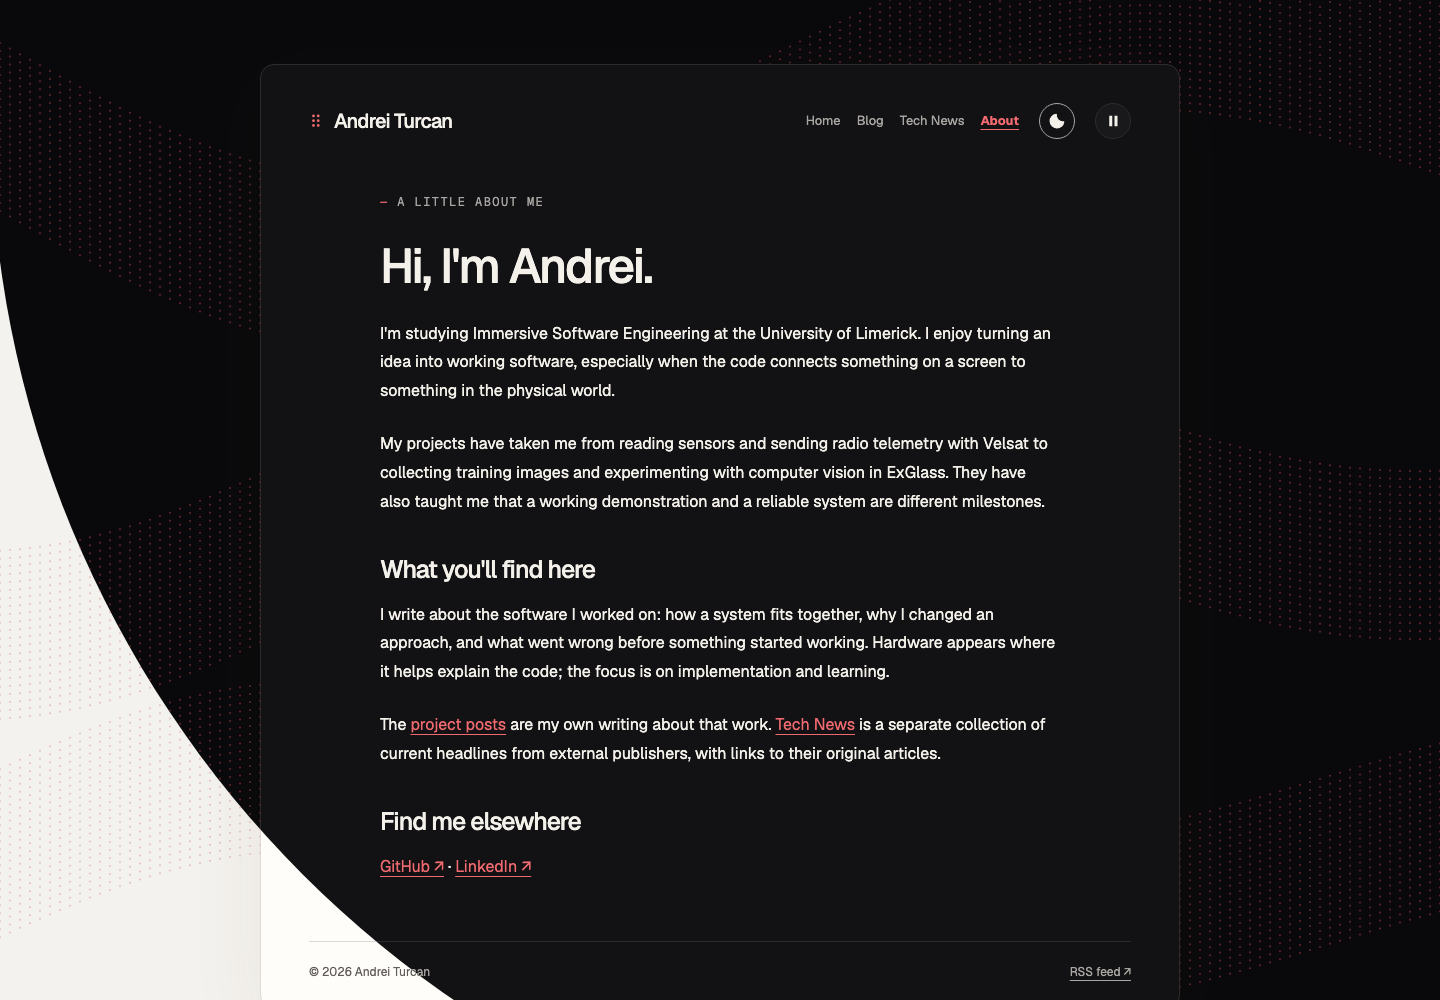
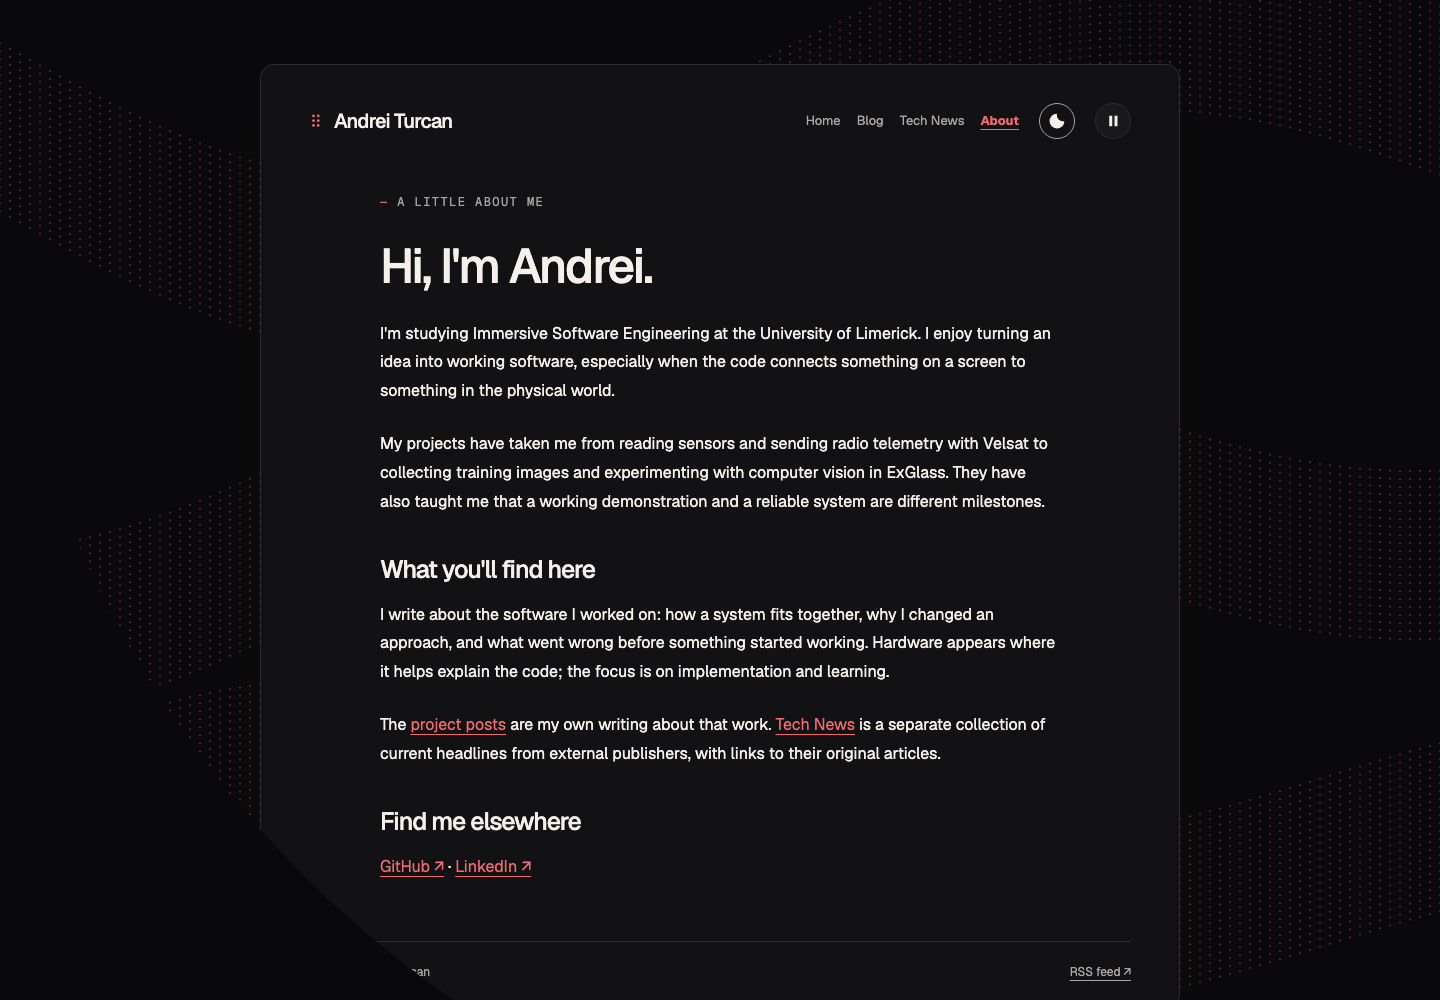
test(theme): verify reveal recovery through page navigation
Confirm that navigation cancels a held theme reveal and resumes the persisted waves after integrating current main. Refresh measurements and visual evidence against the combined implementation.

Refs #65

Changed region(s): [[0.0, 0.279, 0.3125, 1.0]]

diff --git a/tests/theme-toggle.spec.ts b/tests/theme-toggle.spec.ts
@@ -167,6 +167,34 @@ test("reducing motion during a reveal cancels it and allows later background res
   await expect.poll(() => canvas.evaluate((node) => (node as HTMLCanvasElement).toDataURL())).not.toBe(resumed);
 });
 
+test("navigation cancels a held theme reveal and resumes the persistent waves", async ({ page }) => {
+  await page.route("**/api/news", (route) => route.fulfill({ json: { items: [], sources: [], checkedAt: "2026-10-12T12:00:00Z" } }));
+  await page.emulateMedia({ colorScheme: "light", reducedMotion: "no-preference" });
+  await page.goto(`${baseUrl}/about/`);
+  test.skip(!(await page.evaluate(() => typeof document.startViewTransition === "function")), "Browser uses the CSS color fallback");
+  await page.evaluate(() => {
+    const original = Element.prototype.animate;
+    Element.prototype.animate = function (keyframes, options) {
+      const animation = original.call(this, keyframes, options);
+      if (typeof options === "object" && options?.pseudoElement === "::view-transition-new(root)") {
+        animation.pause();
+        (window as Window & { heldReveal?: Animation }).heldReveal = animation;
+      }
+      return animation;
+    };
+  });
+  await page.getByRole("button", { name: "Switch to dark mode" }).click();
+  await expect.poll(() => page.evaluate(() => (window as Window & { heldReveal?: Animation }).heldReveal?.playState)).toBe("paused");
+  await page.getByRole("navigation").getByRole("link", { name: "Blog", exact: true }).evaluate((node) => (node as HTMLAnchorElement).click());
+  await expect(page.getByRole("searchbox")).toBeVisible();
+  await expect(page.locator("html")).not.toHaveAttribute("data-theme-reveal", "true");
+  await expect(page.locator("html")).toHaveAttribute("data-theme", "dark");
+  const canvas = page.locator("[data-wave-canvas]");
+  const resumed = await canvas.evaluate((node) => (node as HTMLCanvasElement).toDataURL());
+  await expect.poll(() => canvas.evaluate((node) => (node as HTMLCanvasElement).toDataURL())).not.toBe(resumed);
+  expect(await page.evaluate(() => localStorage.getItem("waves-paused"))).toBeNull();
+});
+
 test("theme reveals preserve a saved manual background pause", async ({ page }) => {
   await page.emulateMedia({ colorScheme: "light", reducedMotion: "no-preference" });
   await page.addInitScript(() => localStorage.setItem("waves-paused", "true"));

diff --git a/docs/verification/theme-performance/README.md b/docs/verification/theme-performance/README.md
@@ -14,7 +14,7 @@ Six alternating transitions on `/about/`, headless Chromium, 1440 × 1000, 4× C
 | --- | --- | --- |
 | Wave redraws while reveal marker is active | 12–14 per reveal | 2 per reveal |
 | Sampled animation-frame intervals, median / p95 | 16.7 / 16.8 ms | 16.7 / 16.7–16.8 ms |
-| Sampled intervals per reveal | 29 | 37–39 |
+| Sampled intervals per reveal | 29 | 37–38 |
 
 Raw results: [before.json](before.json), [after.json](after.json). These measurements demonstrate reduced drawing work and longer animation pacing; they do **not** establish a higher display refresh rate or guarantee frame rates on physical devices. The browser already drives the native animation at its display cadence. Clip-path rasterization remains browser-dependent.
 
@@ -32,10 +32,10 @@ Set `TEST_BASE_URL` when using another local port. Use the same viewport, browse
 
 - Given running waves, when either theme reveal is held, the bitmap stays still in the new palette; after completion it changes again. The new regression **fails against the old wave loop** and passes with the fix.
 - Given a saved manual pause, when the theme changes, the background stays paused and storage remains unchanged.
-- Given rapid clicks, a skipped native snapshot, or a reduced-motion change during an active reveal, the latest theme remains usable and suspension is released; reduced motion still prevents animation.
+- Given rapid clicks, a skipped native snapshot, navigation during a held reveal, or a reduced-motion change during an active reveal, the latest theme remains usable and suspension is released; reduced motion still prevents animation.
 - Keyboard control, CSS fallback, saved themes, default wave motion, portrait loading, project posts, news states/filtering and viewport overflow remain covered.
 
-Local results: lint passed; Astro checks returned zero errors/warnings (one existing Zod deprecation hint); 31 app unit tests, 8 CDK tests and 7 deployment tests passed; 62 Chromium/WebKit browser tests passed on both development and compiled server builds. Static/server builds, CDK TypeScript build and synthesis passed. Desktop/mobile light, dark and midpoint screenshots were reviewed. Linux container health and remote CI are verified in the linked PR before merge; deployment evidence is recorded in the issue after release. Independent agent review found no concrete bugs; classmate review remains outstanding.
+Local results: lint passed; Astro checks returned zero errors/warnings (one existing Zod deprecation hint); 31 app unit tests, 8 CDK tests and 7 deployment tests passed; the combined 76-case development suite plus two navigation-interruption cases passed; the final 78-case Chromium/WebKit suite passed on the compiled server after integration with main. Static/server builds, CDK TypeScript build and synthesis passed. Desktop/mobile light, dark and midpoint screenshots were reviewed. Linux container health and remote CI are verified in the linked PR before merge; deployment evidence is recorded in the issue after release. Independent agent review found no concrete bugs; classmate review remains outstanding.
 
 Screenshots: [desktop light](light-1440.png), [desktop reveal](reveal-1440.png), [desktop dark](dark-1440.png), [mobile light](light-390.png), [mobile reveal](reveal-390.png), [mobile dark](dark-390.png).
 
